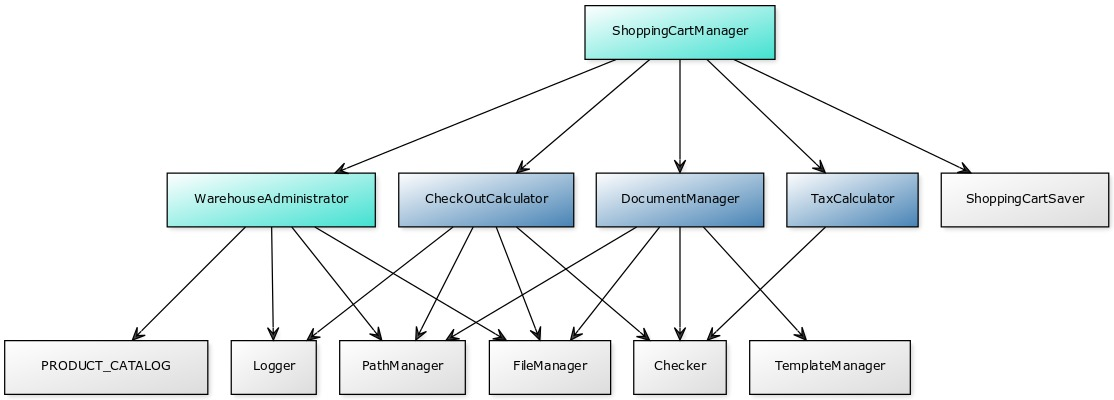
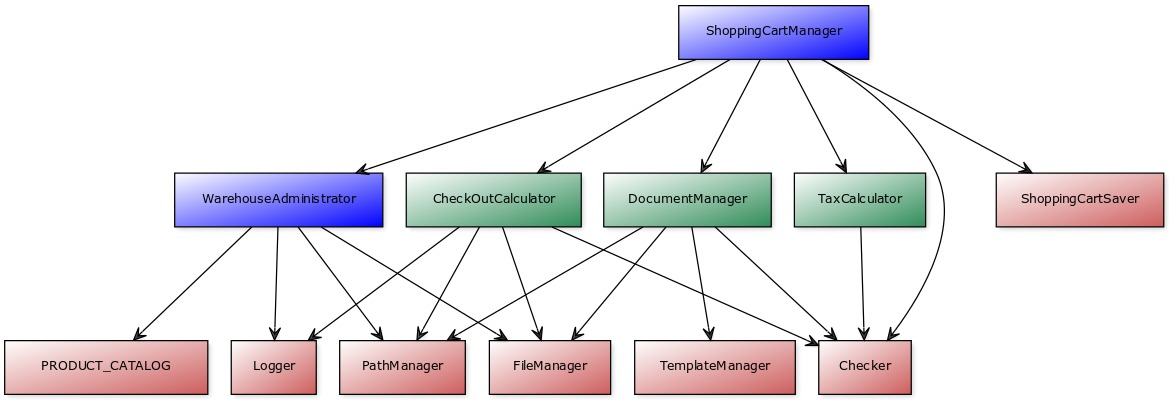
docs(diagram): solid diagram

diff --git a/docs/c-solid.md b/docs/c-solid.md
@@ -73,6 +73,9 @@ class: impact
 | 2-Negocio         |       a-2      |      b-2      |     z-2     |
 | 3-Infraestructura |       a-3      |      b-3      |     z-3     |
 
+
+![solid diagram](https://yuml.me/academiabinaria/c-solid.jpg)
+
 ---
 
 

diff --git a/c-solid/to-do.md b/c-solid/to-do.md
@@ -3,4 +3,4 @@
 - [x] refactor(c-solid): solid
 - [x] test(c-solid): solid
 - [x] docs(c-solid): [class diagrams](https://yuml.me/academiabinaria/c-solid.jpg)
-- [ ] docs(c-solid): solid code examples
+- [x] docs(c-solid): solid code examples

diff --git a/docs/b-patterns.md b/docs/b-patterns.md
@@ -70,6 +70,8 @@ class: impact
 | 3- Infraestructura |
 
 
+![patterns facade diagram](https://yuml.me/academiabinaria/b-patterns-facade.jpg)
+
 ---
 
 > Evoluciona en función del tiempo de mantenimiento esperado.

diff --git a/docs/a-clean.md b/docs/a-clean.md
@@ -58,6 +58,8 @@ class: impact
 
 **Despliegue**: Despliegue en monolito en cada capa física.
 
+![clean diagram](https://yuml.me/academiabinaria/a-clean.png)
+
 ---
 
 # El código huele
